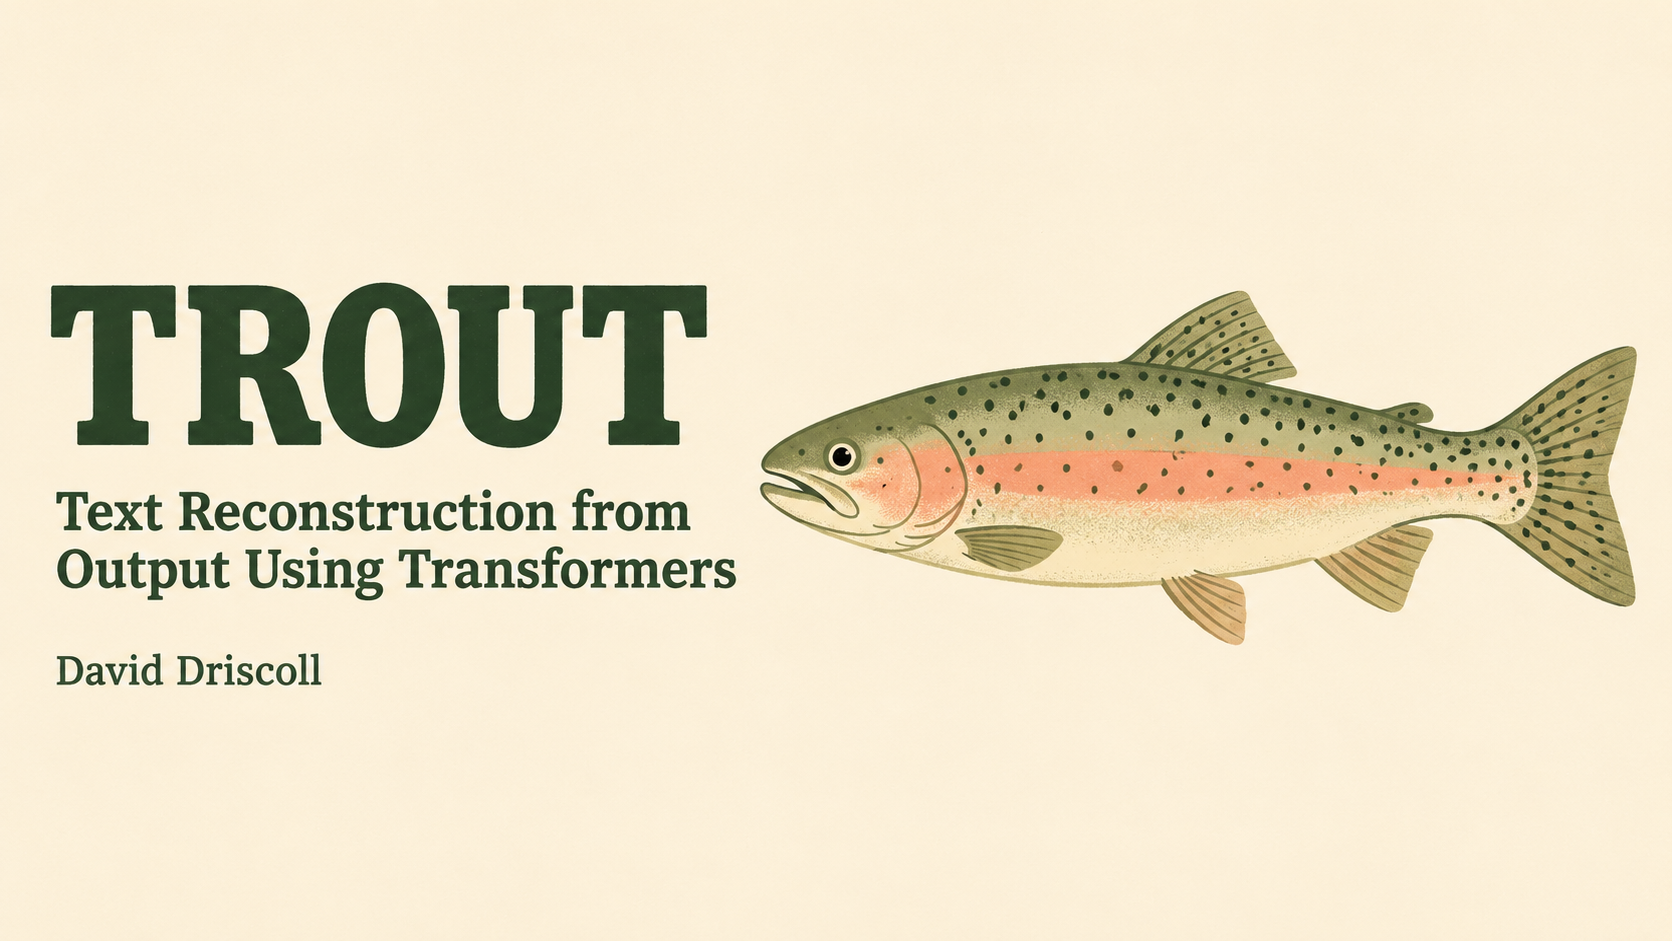
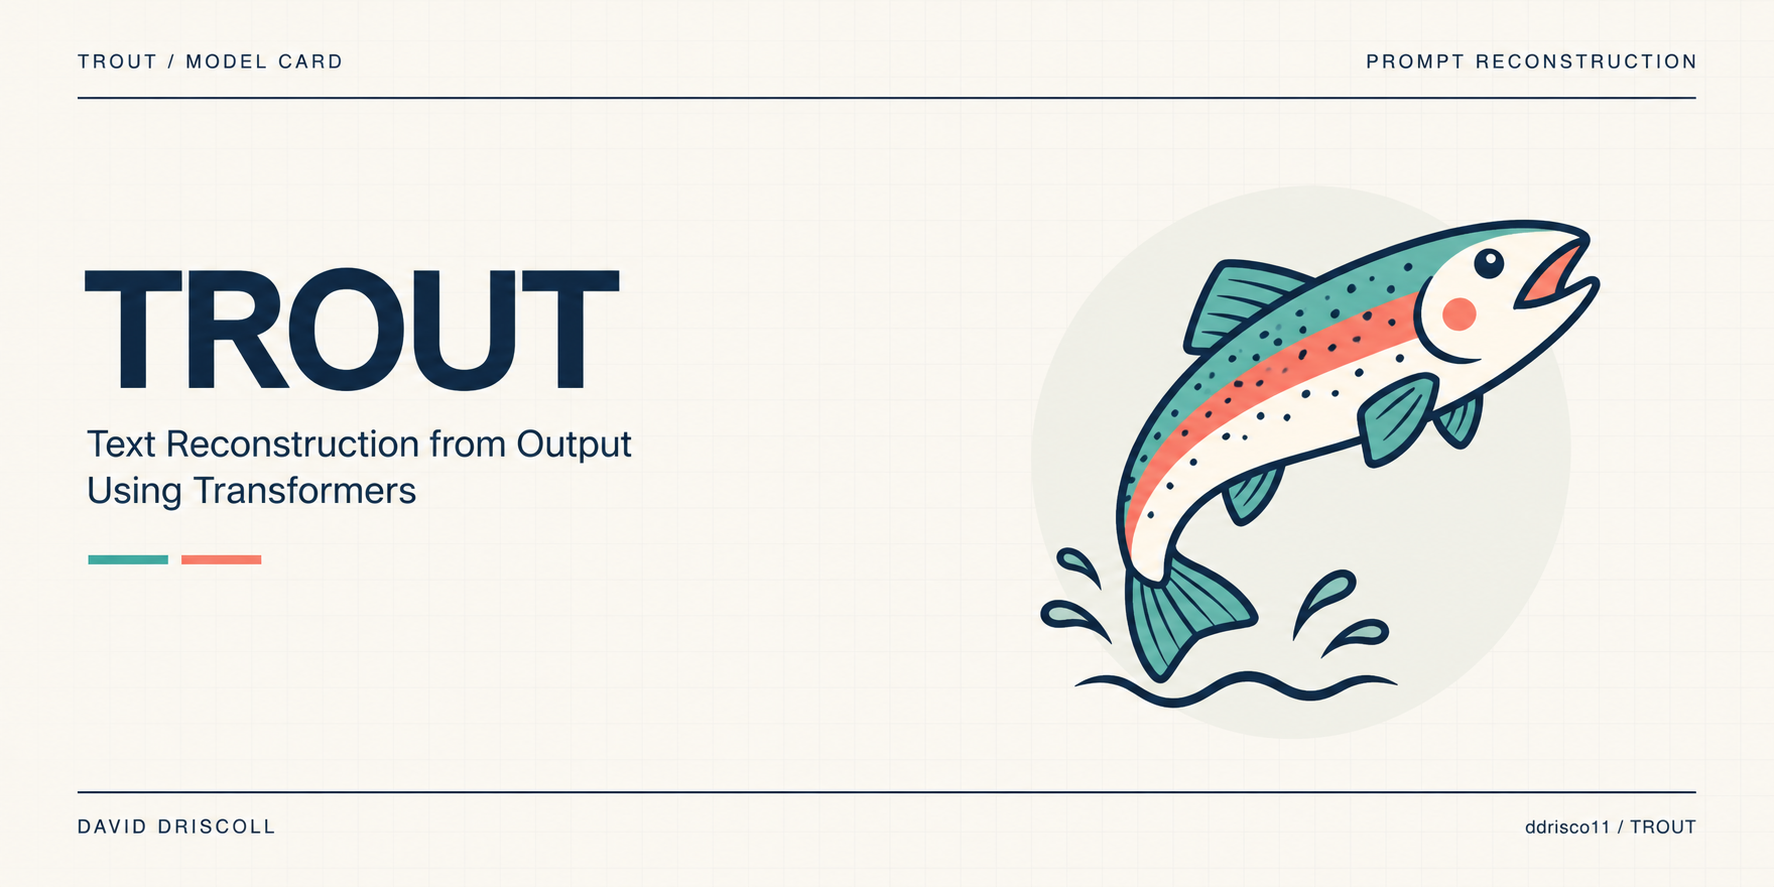
Use 8-bit TROUT for inference and release with updated illustrated model card

diff --git a/publish.py b/publish.py
@@ -27,6 +27,8 @@ library_name: mlx-lm
 
 Text Reconstruction from Output Using Transformers.
 
+The release uses an 8-bit MLX Qwen base (affine quantization, group size 64). The base is included under `base-8bit/`.
+
 An MLX LoRA by David Driscoll for reconstructing the first user prompt from one
 assistant response. The output is a guess. Multiple prompts can produce the same answer.
 
@@ -48,6 +50,7 @@ Related work includes [Output2Prompt](https://aclanthology.org/2024.emnlp-main.8
     owner = api.whoami()['name']
     repo = f'{owner}/TROUT'
     api.create_repo(repo, exist_ok=True)
+    api.upload_folder(repo_id=repo, folder_path=".assets/base-8bit", path_in_repo="base-8bit", ignore_patterns=["README.md"])
     print(api.upload_folder(repo_id=repo, folder_path=folder,
                             allow_patterns=['README.md', 'adapters.safetensors',
                                             'adapter_config.json', 'evaluation.json']), flush=True)

diff --git a/predict.py b/predict.py
@@ -5,14 +5,18 @@ from pathlib import Path
 
 from huggingface_hub import snapshot_download
 from mlx_lm import generate, load
+from mlx_lm.convert import convert
 
 from settings import BASE, BASE_REV, SEMANTIC_SYSTEM
 
 
 def load_predictor(adapter):
-    base = Path('.assets/base')
-    weights = str(base) if base.is_dir() else snapshot_download(BASE, revision=BASE_REV)
-    model, tokenizer = load(weights, adapter_path=adapter)
+    weights = Path('.assets/base-8bit')
+    if not weights.exists():
+        base = Path('.assets/base')
+        source = str(base) if base.is_dir() else snapshot_download(BASE, revision=BASE_REV)
+        convert(source, str(weights), quantize=True, q_bits=8, q_group_size=64)
+    model, tokenizer = load(str(weights), adapter_path=adapter)
 
     def predict(response, max_tokens=256, sampler=None):
         messages = [

diff --git a/README.md b/README.md
@@ -6,6 +6,8 @@ Text Reconstruction from Output Using Transformers.
 
 Given one assistant answer, generate a prompt with the same meaning as the first user prompt. This is a standalone Apple silicon experiment by David Driscoll. The model sees the response text alone. Several prompts can produce the same answer, so a plausible reconstruction may still miss the target.
 
+TROUT uses an 8-bit Qwen base for inference and held-out evaluation (525 MB of base weights plus the LoRA adapter). Training uses the original BF16 base.
+
 ## Model and data
 
 The base is [Qwen2.5-0.5B-Instruct](https://huggingface.co/Qwen/Qwen2.5-0.5B-Instruct). MLX-LM trains rank-8 LoRA adapters on the query and value projections in the final eight layers, with the input masked out of the loss. Corpus and base revisions are pinned in settings.py.
